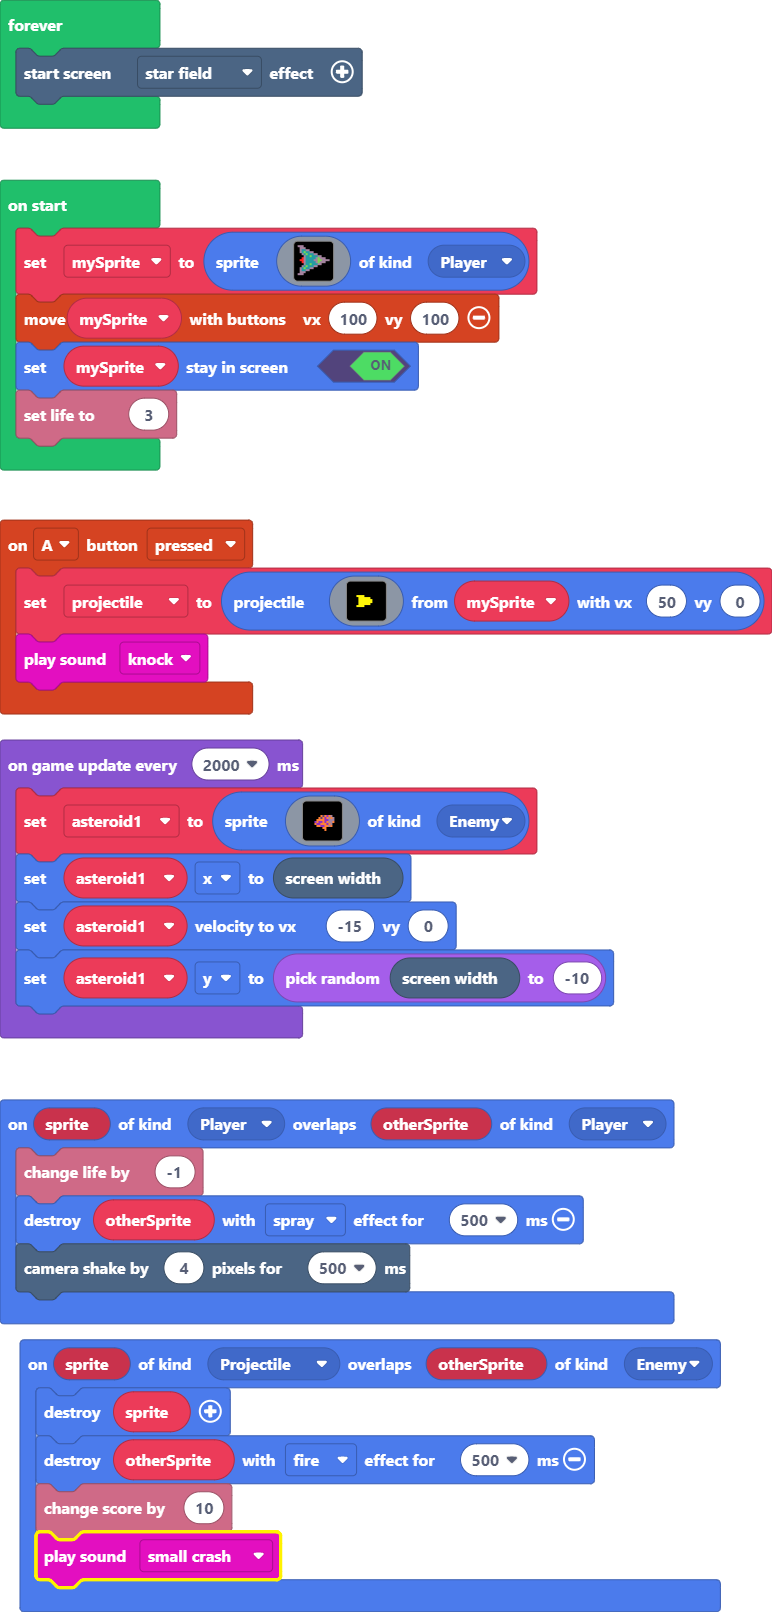
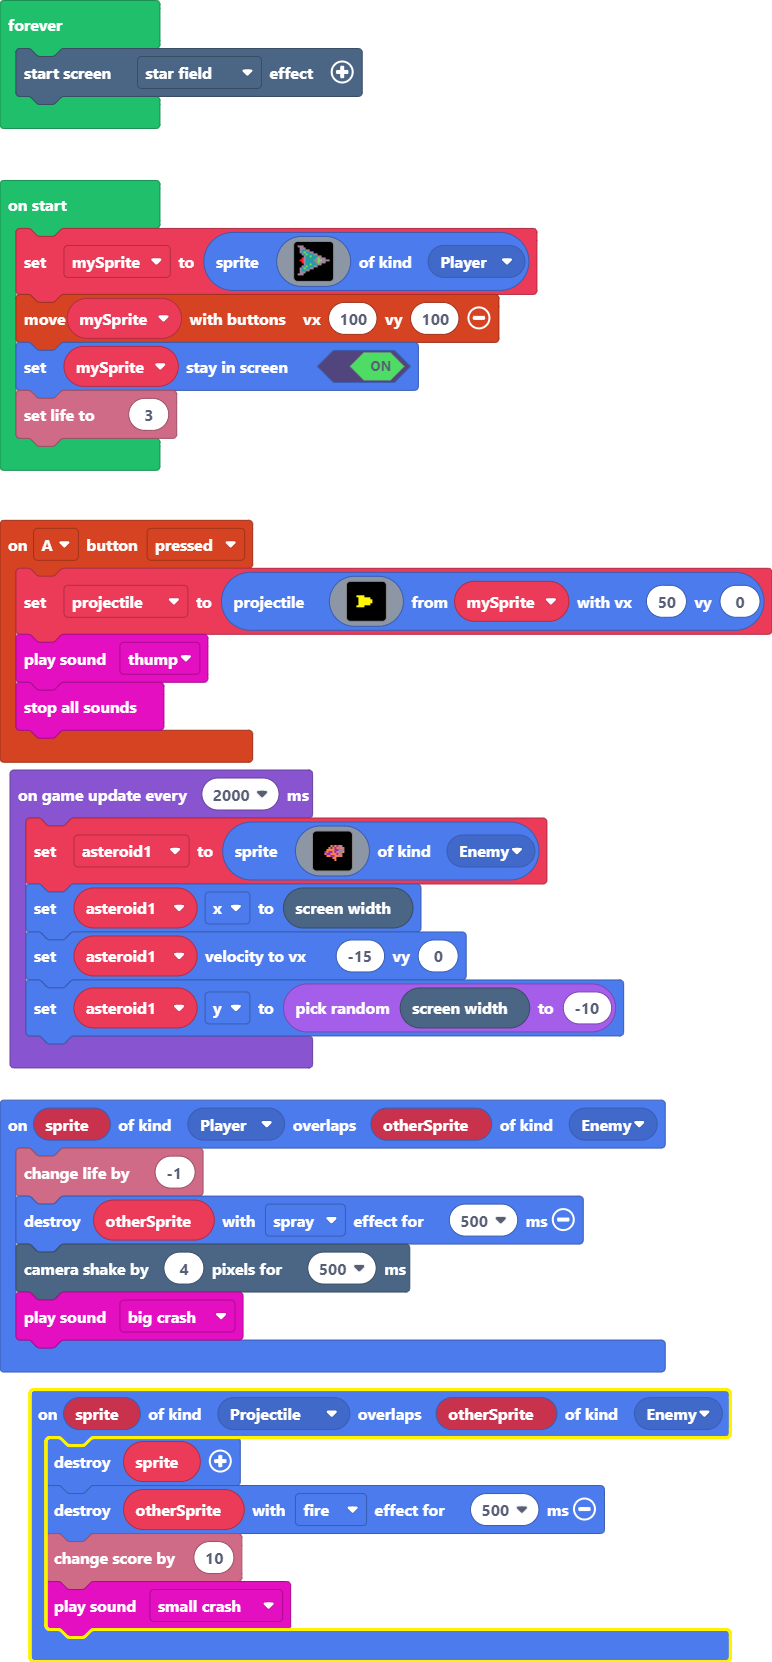
Update main.blocks, main.ts

Changed region(s): [[0.0, 0.0, 1.0, 1.0], [0.1865, 0.031, 0.4663, 0.062]]

diff --git a/main.ts b/main.ts
@@ -17,18 +17,20 @@ controller.A.onEvent(ControllerButtonEvent.Pressed, function () {
         . . . . . . . . . . . . . . . . 
         . . . . . . . . . . . . . . . . 
         `, mySprite, 50, 0)
-    music.knock.play()
-})
-sprites.onOverlap(SpriteKind.Player, SpriteKind.Player, function (sprite, otherSprite) {
-    info.changeLifeBy(-1)
-    otherSprite.destroy(effects.spray, 500)
-    scene.cameraShake(4, 500)
+    music.thump.play()
+    music.stopAllSounds()
 })
 sprites.onOverlap(SpriteKind.Projectile, SpriteKind.Enemy, function (sprite, otherSprite) {
     sprite.destroy()
     otherSprite.destroy(effects.fire, 500)
     info.changeScoreBy(10)
     music.smallCrash.play()
+})
+sprites.onOverlap(SpriteKind.Player, SpriteKind.Enemy, function (sprite, otherSprite) {
+    info.changeLifeBy(-1)
+    otherSprite.destroy(effects.spray, 500)
+    scene.cameraShake(4, 500)
+    music.bigCrash.play()
 })
 let asteroid1: Sprite = null
 let projectile: Sprite = null
